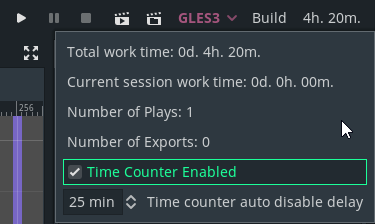
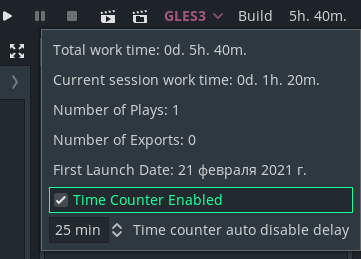
added first launch date

Changed region(s): [[0.0, 0.0312, 1.0, 1.0], [0.8837, 0.5312, 0.9446, 0.625]]

diff --git a/addons/WorkTimer/WorkTimer.cs b/addons/WorkTimer/WorkTimer.cs
@@ -13,6 +13,7 @@ namespace WorkTimeCounter
         public TimeSpan CurrentWorkTime { get; protected set; } = new TimeSpan();
         public int TotalPlayTimes { get; protected set; } = 0;
         public int TotalExportTimes { get; protected set; } = 0;
+        public DateTime FirstLaunch { get; protected set; } = DateTime.Now;
 
         public void AddTime(TimeSpan time)
         {
@@ -51,12 +52,12 @@ namespace WorkTimeCounter
 
             public void Save()
             {
-                metaStorage.SetMeta(nameof(CurrentWorkTime), CurrentWorkTime.Ticks.ToString());
-                metaStorage.SetMeta(nameof(IsCounterTempDisabled), ((int)IsCounterTempDisabled).ToString());
-                metaStorage.SetMeta(nameof(TempDisableStartTime), TempDisableStartTime.Ticks.ToString());
-
                 try
                 {
+                    metaStorage.SetMeta(nameof(CurrentWorkTime), CurrentWorkTime.Ticks.ToString());
+                    metaStorage.SetMeta(nameof(IsCounterTempDisabled), ((int)IsCounterTempDisabled).ToString());
+                    metaStorage.SetMeta(nameof(TempDisableStartTime), TempDisableStartTime.Ticks.ToString());
+
                     var file = new File();
                     var dir = new Directory();
                     if (file.FileExists(saveFile))
@@ -87,6 +88,7 @@ namespace WorkTimeCounter
                     var dict = new Godot.Collections.Dictionary
                     {
                         // Store data
+                        ["fist_launch"] = FirstLaunch.Ticks.ToString(),
                         ["time"] = TotalWorkTime.Ticks.ToString(),
                         ["plays"] = TotalPlayTimes.ToString(),
                         ["exports"] = TotalExportTimes.ToString(),
@@ -115,17 +117,17 @@ namespace WorkTimeCounter
 
             void Load()
             {
-                if (metaStorage.HasMeta(nameof(CurrentWorkTime)))
-                    CurrentWorkTime = new TimeSpan(long.Parse((string)metaStorage.GetMeta(nameof(CurrentWorkTime))));
-
-                // Temporary disabling
-                if (metaStorage.HasMeta(nameof(IsCounterTempDisabled)))
-                    IsCounterTempDisabled = (TempDisabledState)int.Parse((string)metaStorage.GetMeta(nameof(IsCounterTempDisabled)));
-                if (metaStorage.HasMeta(nameof(TempDisableStartTime)))
-                    TempDisableStartTime = new DateTime(long.Parse((string)metaStorage.GetMeta(nameof(TempDisableStartTime))));
-
                 try
                 {
+                    if (metaStorage.HasMeta(nameof(CurrentWorkTime)))
+                        CurrentWorkTime = new TimeSpan(long.Parse((string)metaStorage.GetMeta(nameof(CurrentWorkTime))));
+
+                    // Temporary disabling
+                    if (metaStorage.HasMeta(nameof(IsCounterTempDisabled)))
+                        IsCounterTempDisabled = (TempDisabledState)int.Parse((string)metaStorage.GetMeta(nameof(IsCounterTempDisabled)));
+                    if (metaStorage.HasMeta(nameof(TempDisableStartTime)))
+                        TempDisableStartTime = new DateTime(long.Parse((string)metaStorage.GetMeta(nameof(TempDisableStartTime))));
+
                     var file = new File();
                     if (file.FileExists(saveFile))
                     {
@@ -147,6 +149,7 @@ namespace WorkTimeCounter
                                     };
                                     // Loading data
 
+                                    FirstLaunch = new DateTime(long.Parse(getValue("fist_launch", FirstLaunch.Ticks.ToString())));
                                     TotalWorkTime = new TimeSpan(long.Parse(getValue("time", TotalWorkTime.Ticks.ToString())));
                                     TotalPlayTimes = int.Parse(getValue("plays", TotalPlayTimes.ToString()));
                                     TotalExportTimes = int.Parse(getValue("exports", TotalExportTimes.ToString()));
@@ -183,6 +186,7 @@ namespace WorkTimeCounter
         Godot.Timer tempDisableTimer = null;
         PopupPanel popuPanel = null;
 
+        Label p_first_launch_label = null;
         Label p_total_time_label = null;
         Label p_current_time_label = null;
         Label p_total_runs = null;
@@ -320,6 +324,7 @@ namespace WorkTimeCounter
             p_current_time_label = new Label() { Name = "CurrnetTimeLabel" };
             p_total_runs = new Label() { Name = "TotalRunsLabel" };
             p_total_exports = new Label() { Name = "TotalExportsLabel" };
+            p_first_launch_label = new Label() { Name = "FirstLaunchLabel" };
             p_enabled_box = new CheckBox() { Text = "Time Counter Enabled" };
             p_temp_disable_time = new SpinBox() { Suffix = "min", Rounded = true, MaxValue = 24 * 60 };
             var temp_tdt_line = new HBoxContainer();
@@ -329,6 +334,8 @@ namespace WorkTimeCounter
             vbox.AddChild(p_current_time_label);
             vbox.AddChild(p_total_runs);
             vbox.AddChild(p_total_exports);
+            vbox.AddChild(p_first_launch_label);
+
             vbox.AddChild(p_enabled_box);
             vbox.AddChild(temp_tdt_line);
             temp_tdt_line.AddChild(p_temp_disable_time);
@@ -385,6 +392,7 @@ namespace WorkTimeCounter
             p_current_time_label.Text = $"Current session work time: {GetTimeString(workCounter.CurrentWorkTime, true)}";
             p_total_runs.Text = $"Number of Plays: {workCounter.TotalPlayTimes}";
             p_total_exports.Text = $"Number of Exports: {workCounter.TotalExportTimes}";
+            p_first_launch_label.Text = $"First Launch Date: {workCounter.FirstLaunch:D}";
         }
 
         void ResetPrevTime()

diff --git a/README.md b/README.md
@@ -6,7 +6,8 @@ I made it for personal use.
 ## Usage
 
 1. Copy `addons/WorkTimer` to your project `addons/WorkTimer`.
-1. Download [Discord Game SDK](https://discord.com/developers/docs/game-sdk/sdk-starter-guide#step-1-get-the-thing) and extract `csharp` and `lib` folder into `addons/WorkTimer/discord_sdk`
-1. Change the path to the discord libraries in `addons/WorkTimer/discord_sdk/csharp/Constants.cs` to `addons/WorkTimer/discord_sdk/lib/x86_64/discord_game_sdk`
+1. Optional for Discord support. If you don't need it just define conditional compilation symbol `NO_DISCORD` to disable discord support.
+    1. Download [Discord Game SDK](https://discord.com/developers/docs/game-sdk/sdk-starter-guide#step-1-get-the-thing) and extract `csharp` and `lib` folder into `addons/WorkTimer/discord_sdk`
+    1. Change the path to the discord libraries in `addons/WorkTimer/discord_sdk/csharp/Constants.cs` to `addons/WorkTimer/discord_sdk/lib/x86_64/discord_game_sdk`
 
 ![Screenshot](screenshot_1.png)
